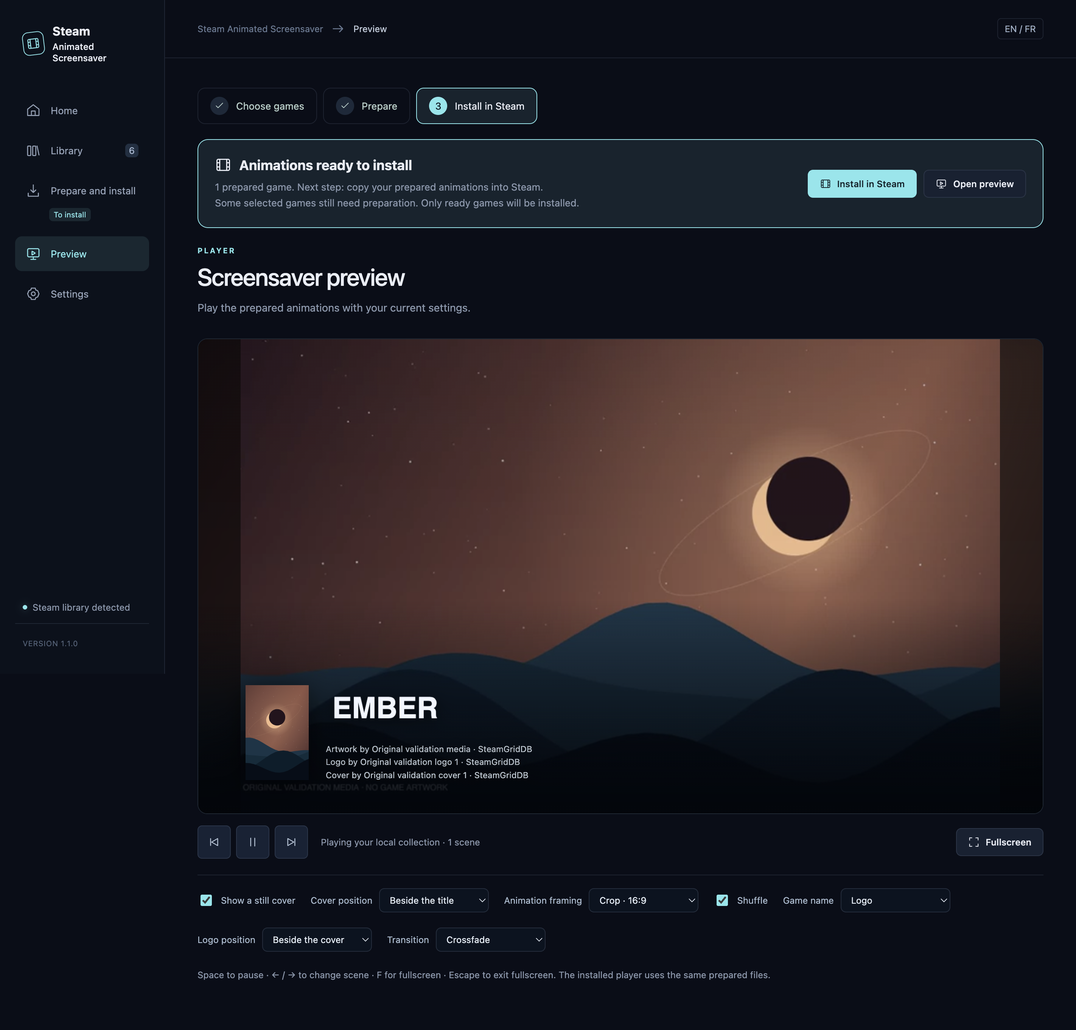
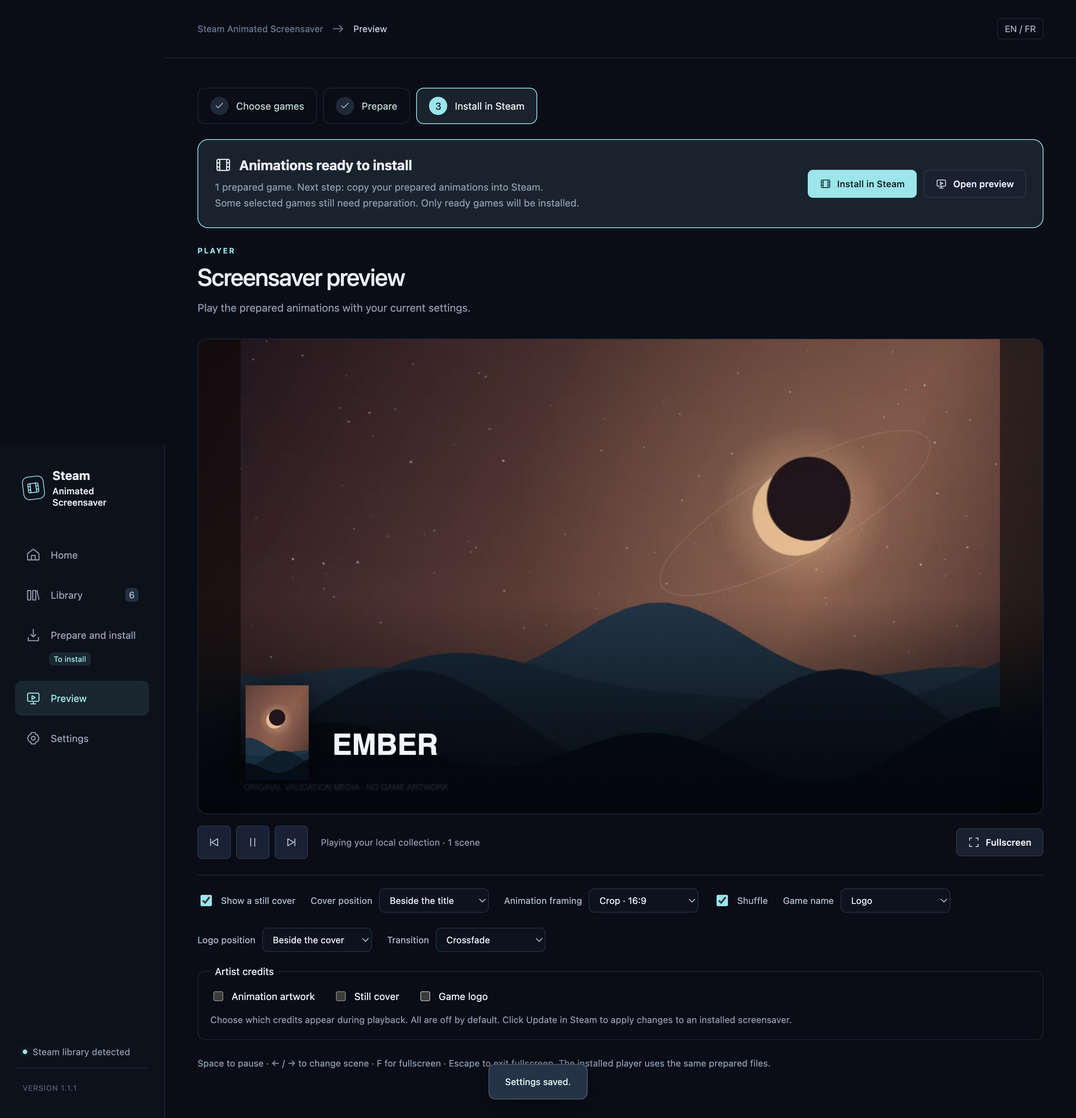
Add optional playback credits and release 1.1.1

diff --git a/manager/app.js b/manager/app.js
@@ -1006,6 +1006,22 @@ Object.assign(translations.fr, {
   phaseLogoCheck: 'Vérification du logo du jeu',
   phaseLogoPrepare: 'Téléchargement et validation du logo'
 });
+Object.assign(translations.en, {
+  creditsTitle: 'Artist credits',
+  creditsHint:
+    'Choose which credits appear during playback. All are off by default. Click Update in Steam to apply changes to an installed screensaver.',
+  showArtworkCredit: 'Animation artwork',
+  showCoverCredit: 'Still cover',
+  showLogoCredit: 'Game logo'
+});
+Object.assign(translations.fr, {
+  creditsTitle: 'Crédits des artistes',
+  creditsHint:
+    'Choisissez les crédits affichés pendant la lecture. Ils sont tous désactivés par défaut. Cliquez sur Mettre à jour dans Steam pour appliquer les changements à l’écran de veille installé.',
+  showArtworkCredit: 'Illustration animée',
+  showCoverCredit: 'Jaquette fixe',
+  showLogoCredit: 'Logo du jeu'
+});
 const app = document.querySelector('#app'),
   addDialog = document.querySelector('#add-dialog'),
   detailDialog = document.querySelector('#detail-dialog');
@@ -1018,6 +1034,9 @@ const defaultState = {
     transition: 'crossfade',
     showLogos: true,
     nameDisplay: 'logo',
+    showArtworkCredit: false,
+    showCoverCredit: false,
+    showLogoCredit: false,
     logoPosition: 'beside-title',
     showCover: true,
     coverPosition: 'beside-title',
@@ -1427,11 +1446,14 @@ function brandingOptions(value, position = false, inherit = false) {
     )
     .join('');
 }
+function creditsControls() {
+  return `<fieldset class="credits-options"><legend>${esc(t('creditsTitle'))}</legend><div class="credits-choices">${['showArtworkCredit', 'showCoverCredit', 'showLogoCredit'].map((key) => `<label><input type="checkbox" data-setting="${key}" ${state.settings[key] ? 'checked' : ''}>${esc(t(key))}</label>`).join('')}</div><p>${esc(t('creditsHint'))}</p></fieldset>`;
+}
 function brandingControls() {
   return `<label class="preview-option"><span>${esc(t('gameName'))}</span><select class="field" data-setting="nameDisplay" aria-label="${esc(t('gameName'))}">${brandingOptions(state.settings.nameDisplay)}</select></label><label class="preview-option"><span>${esc(t('logoPosition'))}</span><select class="field" data-setting="logoPosition" aria-label="${esc(t('logoPosition'))}">${brandingOptions(state.settings.logoPosition, true)}</select></label>`;
 }
 function shell() {
-  return `<div class="app-shell"><aside class="sidebar"><div class="brand"><span class="brand-mark">${icon('film')}</span><div><div class="brand-name">Steam <span>Animated Screensaver</span></div></div></div><nav class="nav" aria-label="${esc(t('tagline'))}">${['home', 'library', 'preparation', 'preview', 'settings'].map((r) => `<button data-route="${r}" class="${route === r ? 'active' : ''}" ${route === r ? 'aria-current="page"' : ''}>${icon(r === 'preparation' ? 'prepare' : r)}<span>${esc(t(r))}</span>${r === 'preparation' ? `<small data-workflow-badge class="workflow-badge" ${!workflowBadge() ? 'hidden' : ''}>${esc(workflowBadge())}</small>` : ''}${r === 'library' && state.games.length ? `<span class="nav-count">${state.games.length}</span>` : ''}</button>`).join('')}</nav><div class="sidebar-bottom"><div class="steam-status"><span class="status-dot ${state.steam.detected ? 'on' : ''}"></span>${esc(t(state.steam.detected ? 'connected' : 'notDetected'))}</div><div class="sidebar-foot">VERSION 1.1.0</div></div></aside><main class="main"><header class="topbar"><div class="breadcrumbs">Steam Animated Screensaver ${icon('arrow')}<span>${esc(t(route))}</span></div><div class="mobile-brand">${icon('film')} Steam Animated Screensaver</div><div class="top-actions"><button class="top-lang" data-action="language" aria-label="${lang() === 'en' ? 'Passer en français' : 'Switch to English'}">${lang() === 'en' ? 'EN / FR' : 'FR / EN'}</button></div></header><div class="content">${workflow()}${steamNextStep()}${[...(state.warnings || []), ...(state.steam.warnings || [])].length ? `<div class="banner" role="status">${icon('info')}<span>${[...(state.warnings || []), ...(state.steam.warnings || [])].map(esc).join('<br>')}</span></div>` : ''}${connectionError ? `<div class="connection-error" role="alert">${esc(t('connectionError'))} ${button(t('retryConnection'), 'reconnect', 'refresh')}</div>` : ''}${{ home: homeView, library: libraryView, preparation: preparationView, preview: previewView, settings: settingsView }[route]()}</div></main></div>`;
+  return `<div class="app-shell"><aside class="sidebar"><div class="brand"><span class="brand-mark">${icon('film')}</span><div><div class="brand-name">Steam <span>Animated Screensaver</span></div></div></div><nav class="nav" aria-label="${esc(t('tagline'))}">${['home', 'library', 'preparation', 'preview', 'settings'].map((r) => `<button data-route="${r}" class="${route === r ? 'active' : ''}" ${route === r ? 'aria-current="page"' : ''}>${icon(r === 'preparation' ? 'prepare' : r)}<span>${esc(t(r))}</span>${r === 'preparation' ? `<small data-workflow-badge class="workflow-badge" ${!workflowBadge() ? 'hidden' : ''}>${esc(workflowBadge())}</small>` : ''}${r === 'library' && state.games.length ? `<span class="nav-count">${state.games.length}</span>` : ''}</button>`).join('')}</nav><div class="sidebar-bottom"><div class="steam-status"><span class="status-dot ${state.steam.detected ? 'on' : ''}"></span>${esc(t(state.steam.detected ? 'connected' : 'notDetected'))}</div><div class="sidebar-foot">VERSION 1.1.1</div></div></aside><main class="main"><header class="topbar"><div class="breadcrumbs">Steam Animated Screensaver ${icon('arrow')}<span>${esc(t(route))}</span></div><div class="mobile-brand">${icon('film')} Steam Animated Screensaver</div><div class="top-actions"><button class="top-lang" data-action="language" aria-label="${lang() === 'en' ? 'Passer en français' : 'Switch to English'}">${lang() === 'en' ? 'EN / FR' : 'FR / EN'}</button></div></header><div class="content">${workflow()}${steamNextStep()}${[...(state.warnings || []), ...(state.steam.warnings || [])].length ? `<div class="banner" role="status">${icon('info')}<span>${[...(state.warnings || []), ...(state.steam.warnings || [])].map(esc).join('<br>')}</span></div>` : ''}${connectionError ? `<div class="connection-error" role="alert">${esc(t('connectionError'))} ${button(t('retryConnection'), 'reconnect', 'refresh')}</div>` : ''}${{ home: homeView, library: libraryView, preparation: preparationView, preview: previewView, settings: settingsView }[route]()}</div></main></div>`;
 }
 function heading(eyebrow, title, sub, actions = '') {
   return `<div class="page-heading"><div><div class="eyebrow">${esc(t(eyebrow))}</div><h1>${esc(t(title))}</h1><p>${esc(t(sub))}</p></div>${actions ? `<div class="button-row">${actions}</div>` : ''}</div>`;
@@ -1593,7 +1615,7 @@ function coverPositionOptions() {
 }
 function previewView() {
   const games = readyGames();
-  return `${heading('previewEyebrow', 'previewTitle', 'previewSub')}${games.length ? `<div id="preview-shell" class="preview-shell"><iframe id="player-frame" src="../player/index.html" title="Steam Animated Screensaver ${esc(t('preview'))}" allow="autoplay; fullscreen" tabindex="-1"></iframe><button class="button ghost fullscreen-exit" data-action="exit-fullscreen">${icon('close')}${esc(t('exitFullscreen'))}</button></div><div class="preview-controls"><div class="playback-buttons"><button class="icon-button" data-action="previous" aria-label="${esc(t('previous') || 'Previous')}">${icon('previous')}</button><button class="icon-button" data-action="toggle-play" aria-label="${esc(t(previewPlaying ? 'pause' : 'resume'))}">${icon(previewPlaying ? 'pause' : 'play')}</button><button class="icon-button" data-action="next" aria-label="${esc(t('next') || 'Next')}">${icon('next')}</button><span class="playback-note">${esc(t(previewPlaying ? 'playing' : 'paused'))} · ${games.length} ${esc(t(games.length === 1 ? 'scene' : 'scenes'))}</span></div>${button(t('fullscreen'), 'fullscreen', 'fullscreen')}</div><div class="preview-options"><label class="preview-option"><input type="checkbox" data-setting="showCover" ${state.settings.showCover ? 'checked' : ''}>${esc(t('showCover'))}</label><label class="preview-option"><span>${esc(t('coverPosition'))}</span><select class="field" data-setting="coverPosition">${coverPositionOptions()}</select></label><label class="preview-option"><span>${esc(t('framing'))}</span><select class="field" data-setting="framing">${framingOptions(state.settings.framing)}</select></label><label class="preview-option"><input type="checkbox" data-setting="shuffle" ${state.settings.shuffle ? 'checked' : ''}>${esc(t('shuffleShort'))}</label>${brandingControls()}<label class="preview-option"><span>${esc(t('transitionShort'))}</span><select class="field" data-setting="transition"><option value="crossfade" ${state.settings.transition !== 'fade-black' ? 'selected' : ''}>${esc(t('crossfade'))}</option><option value="fade-black" ${state.settings.transition === 'fade-black' ? 'selected' : ''}>${esc(t('fadeBlack'))}</option></select></label></div><p class="preview-caption">${esc(t('previewNote'))}</p>` : empty(t('previewEmpty'), t('previewEmptyBody'), button(t('prepareScenes'), 'open-preparation', 'prepare', true), 'preview')}`;
+  return `${heading('previewEyebrow', 'previewTitle', 'previewSub')}${games.length ? `<div id="preview-shell" class="preview-shell"><iframe id="player-frame" src="../player/index.html" title="Steam Animated Screensaver ${esc(t('preview'))}" allow="autoplay; fullscreen" tabindex="-1"></iframe><button class="button ghost fullscreen-exit" data-action="exit-fullscreen">${icon('close')}${esc(t('exitFullscreen'))}</button></div><div class="preview-controls"><div class="playback-buttons"><button class="icon-button" data-action="previous" aria-label="${esc(t('previous') || 'Previous')}">${icon('previous')}</button><button class="icon-button" data-action="toggle-play" aria-label="${esc(t(previewPlaying ? 'pause' : 'resume'))}">${icon(previewPlaying ? 'pause' : 'play')}</button><button class="icon-button" data-action="next" aria-label="${esc(t('next') || 'Next')}">${icon('next')}</button><span class="playback-note">${esc(t(previewPlaying ? 'playing' : 'paused'))} · ${games.length} ${esc(t(games.length === 1 ? 'scene' : 'scenes'))}</span></div>${button(t('fullscreen'), 'fullscreen', 'fullscreen')}</div><div class="preview-options"><label class="preview-option"><input type="checkbox" data-setting="showCover" ${state.settings.showCover ? 'checked' : ''}>${esc(t('showCover'))}</label><label class="preview-option"><span>${esc(t('coverPosition'))}</span><select class="field" data-setting="coverPosition">${coverPositionOptions()}</select></label><label class="preview-option"><span>${esc(t('framing'))}</span><select class="field" data-setting="framing">${framingOptions(state.settings.framing)}</select></label><label class="preview-option"><input type="checkbox" data-setting="shuffle" ${state.settings.shuffle ? 'checked' : ''}>${esc(t('shuffleShort'))}</label>${brandingControls()}<label class="preview-option"><span>${esc(t('transitionShort'))}</span><select class="field" data-setting="transition"><option value="crossfade" ${state.settings.transition !== 'fade-black' ? 'selected' : ''}>${esc(t('crossfade'))}</option><option value="fade-black" ${state.settings.transition === 'fade-black' ? 'selected' : ''}>${esc(t('fadeBlack'))}</option></select></label></div>${creditsControls()}<p class="preview-caption">${esc(t('previewNote'))}</p>` : empty(t('previewEmpty'), t('previewEmptyBody'), button(t('prepareScenes'), 'open-preparation', 'prepare', true), 'preview')}`;
 }
 const toggle = (key, label, hint) =>
   `<label class="setting-row"><span><span class="setting-row-label">${esc(t(label))}</span>${hint ? `<small>${esc(t(hint))}</small>` : ''}</span><span class="switch"><input type="checkbox" data-setting="${key}" ${state.settings[key] ? 'checked' : ''}><span></span></span></label>`;
@@ -1692,7 +1714,7 @@ function settingsView() {
       .join(
         ''
       )}</select></label><label class="setting-row"><span class="setting-row-label">${esc(t('smoothingFps'))}</span><select class="field" data-setting="smoothingFps">${[24, 30].map((n) => `<option value="${n}" ${state.settings.smoothingFps === n ? 'selected' : ''}>${n} ${lang() === 'fr' ? 'i/s' : 'fps'}</option>`).join('')}</select></label><label class="setting-row"><span><span class="setting-row-label">${esc(t('maxSmoothingMB'))}</span><small>${esc(t('smoothingSizeHint'))}</small></span><input class="field" data-setting="maxSmoothingMB" type="number" min="0" max="1000000" step="1" value="${Number(state.settings.maxSmoothingMB) || 0}" aria-label="${esc(t('maxSmoothingMB'))}"></label>${toggle('staticFallback', 'staticFallback', 'staticHint')}${toggle('reducedMotion', 'reducedMotion', 'motionHint')}${toggle('pauseOnGame', 'pauseOnGame', 'pauseHint')}`
-  )}${panel('storage', 'drive', `<div class="storage-label"><span>${esc(bytes(used))}</span><span>${max} GB</span></div><div class="storage-meter"><span style="width:${Math.min(100, (used / (max * 1073741824)) * 100)}%"></span></div><label class="setting-row"><span><span class="setting-row-label">${esc(t('storageLimit'))}</span><small>${esc(t('storageHint'))}</small></span><input class="field" data-setting="maxStorageGB" type="number" min="0.1" max="1000" step="0.1" value="${max}" aria-label="${esc(t('storageLimit'))}"></label><div style="margin-top:20px">${button(t('clearUnused'), 'clearUnused', 'trash') + button(t('repairLibrary'), 'repair', 'refresh')}</div><div class="purge-section"><p>${esc(t('purgeMediaHint'))}</p>${button(t(purgingMedia ? 'purgingMedia' : 'purgeMedia'), 'purge-media', 'trash', false, purgingMedia ? 'disabled' : '')}${state.lastMediaPurge ? `<p class="purge-result">${esc(t('lastMediaPurge'))} : ${esc(new Date(state.lastMediaPurge.at).toLocaleString(lang()))} · ${esc(bytes(state.lastMediaPurge.bytes))}</p>` : ''}</div>`)}${panel('steamIntegration', 'film', `<p>${esc(t('steamInstallBody'))}</p><div class="steam-status" style="margin:0 0 17px"><span class="status-dot ${state.steam.installed ? 'on' : ''}"></span>${esc(t(state.steam.installed ? 'integrationInstalled' : 'integrationNotInstalled'))}</div>${!state.steam.detected ? `<p>${esc(t('integrationNoSteam'))}</p>` : ''}<div class="button-row">${state.steam.installed ? button(t('repair'), 'update-install', 'refresh', true) + button(t('repairInstall'), 'repair-install', 'refresh') + button(t('uninstall'), 'uninstall', 'trash', false) : button(t('install'), 'install', 'prepare', true, !state.steam.detected || !readyGames().length ? 'disabled' : '')}${button(t('scanAgain'), 'scan', 'scan')}</div><p style="margin:16px 0 0;font-size:9px">${esc(t('runtimeNote'))}</p>`)}${steamIdlePanel()}${panel('diagnosticsTitle', 'info', `<p>${esc(t('logsHint'))}</p>${state.diagnostics?.available ? `<p class="log-path">${esc(state.diagnostics.file)}</p>${button(t('openLogs'), 'open-logs', 'drive')}${state.diagnostics.error ? `<p role="alert">${esc(state.diagnostics.error)}</p>` : ''}` : `<p>${esc(t('logsUnavailable'))}</p>`}`)}</div><aside class="settings-note">${icon('shield')}<strong>${esc(t('privacyTitle'))}</strong>${esc(t('privacyBody'))}</aside></div><p class="footnote">${esc(t('credit'))}</p>`;
+  )}${panel('creditsTitle', 'image', creditsControls())}${panel('storage', 'drive', `<div class="storage-label"><span>${esc(bytes(used))}</span><span>${max} GB</span></div><div class="storage-meter"><span style="width:${Math.min(100, (used / (max * 1073741824)) * 100)}%"></span></div><label class="setting-row"><span><span class="setting-row-label">${esc(t('storageLimit'))}</span><small>${esc(t('storageHint'))}</small></span><input class="field" data-setting="maxStorageGB" type="number" min="0.1" max="1000" step="0.1" value="${max}" aria-label="${esc(t('storageLimit'))}"></label><div style="margin-top:20px">${button(t('clearUnused'), 'clearUnused', 'trash') + button(t('repairLibrary'), 'repair', 'refresh')}</div><div class="purge-section"><p>${esc(t('purgeMediaHint'))}</p>${button(t(purgingMedia ? 'purgingMedia' : 'purgeMedia'), 'purge-media', 'trash', false, purgingMedia ? 'disabled' : '')}${state.lastMediaPurge ? `<p class="purge-result">${esc(t('lastMediaPurge'))} : ${esc(new Date(state.lastMediaPurge.at).toLocaleString(lang()))} · ${esc(bytes(state.lastMediaPurge.bytes))}</p>` : ''}</div>`)}${panel('steamIntegration', 'film', `<p>${esc(t('steamInstallBody'))}</p><div class="steam-status" style="margin:0 0 17px"><span class="status-dot ${state.steam.installed ? 'on' : ''}"></span>${esc(t(state.steam.installed ? 'integrationInstalled' : 'integrationNotInstalled'))}</div>${!state.steam.detected ? `<p>${esc(t('integrationNoSteam'))}</p>` : ''}<div class="button-row">${state.steam.installed ? button(t('repair'), 'update-install', 'refresh', true) + button(t('repairInstall'), 'repair-install', 'refresh') + button(t('uninstall'), 'uninstall', 'trash', false) : button(t('install'), 'install', 'prepare', true, !state.steam.detected || !readyGames().length ? 'disabled' : '')}${button(t('scanAgain'), 'scan', 'scan')}</div><p style="margin:16px 0 0;font-size:9px">${esc(t('runtimeNote'))}</p>`)}${steamIdlePanel()}${panel('diagnosticsTitle', 'info', `<p>${esc(t('logsHint'))}</p>${state.diagnostics?.available ? `<p class="log-path">${esc(state.diagnostics.file)}</p>${button(t('openLogs'), 'open-logs', 'drive')}${state.diagnostics.error ? `<p role="alert">${esc(state.diagnostics.error)}</p>` : ''}` : `<p>${esc(t('logsUnavailable'))}</p>`}`)}</div><aside class="settings-note">${icon('shield')}<strong>${esc(t('privacyTitle'))}</strong>${esc(t('privacyBody'))}</aside></div><p class="footnote">${esc(t('credit'))}</p>`;
 }
 function render() {
   // Steam idle status can finish loading while another settings form is being edited.

diff --git a/player/player.js b/player/player.js
@@ -44,6 +44,9 @@
       ].includes(input.logoPosition)
         ? input.logoPosition
         : 'beside-title',
+      showArtworkCredit: input.showArtworkCredit === true,
+      showCoverCredit: input.showCoverCredit === true,
+      showLogoCredit: input.showLogoCredit === true,
       showCover: input.showCover !== false,
       coverPosition: ['beside-title', 'bottom-right', 'top-right', 'top-left'].includes(
         input.coverPosition
@@ -274,9 +277,16 @@
       else scene.append(logo);
     }
     const logoCredit = scene.querySelector('.logo-credit');
-    if (logoCredit) logoCredit.hidden = !logo || logo.hidden;
+    if (logoCredit) logoCredit.hidden = !options.showLogoCredit || !logo || logo.hidden;
+    const artworkCredit = scene.querySelector('.artwork-credit');
+    if (artworkCredit) artworkCredit.hidden = !options.showArtworkCredit;
     scene.classList.toggle('has-logo', !!logo && !logo.hidden);
-    scene.style.setProperty('--caption-height', `${caption.getBoundingClientRect().height}px`);
+    const captionHeight = caption.getBoundingClientRect().height;
+    scene.style.setProperty('--caption-height', `${captionHeight}px`);
+    scene.style.setProperty(
+      '--caption-clearance',
+      captionHeight > 0 ? `calc(${captionHeight}px + var(--cover-gap))` : '0px'
+    );
   }
   function placeCover(scene) {
     const cover = scene.querySelector('.caption-cover');
@@ -288,7 +298,8 @@
     else scene.append(cover);
     scene.classList.toggle('has-cover', !cover.hidden);
     const credit = scene.querySelector('.cover-credit');
-    if (credit) credit.hidden = cover.hidden || cover.dataset.fallback === 'true';
+    if (credit)
+      credit.hidden = !options.showCoverCredit || cover.hidden || cover.dataset.fallback === 'true';
     placeBranding(scene);
   }
   function placeFrame(scene) {
@@ -345,7 +356,8 @@
     title.textContent = String(game.name || '');
     title.hidden = !options.showLogos;
     const credit = doc.createElement('p');
-    credit.className = 'credit';
+    credit.className = 'credit artwork-credit';
+    credit.hidden = !options.showArtworkCredit;
     credit.textContent = `${french() ? 'Artwork de' : 'Artwork by'} ${String(game.media.author?.name || 'Unknown')} · SteamGridDB`;
     const copy = doc.createElement('div');
     copy.className = 'caption-copy';

diff --git a/manager/styles.css b/manager/styles.css
@@ -2732,3 +2732,33 @@ body.reduced-motion *:after {
     flex-wrap: wrap;
   }
 }
+
+.credits-options {
+  min-width: 0;
+  border: 1px solid var(--line);
+  border-radius: 10px;
+  padding: 16px;
+  margin: 18px 0;
+}
+.credits-options legend {
+  color: var(--text);
+  font-size: 13px;
+  padding: 0 6px;
+}
+.credits-choices {
+  display: flex;
+  gap: 16px 24px;
+  flex-wrap: wrap;
+}
+.credits-choices label {
+  display: flex;
+  align-items: center;
+  gap: 8px;
+  font-size: 13px;
+}
+.credits-options p {
+  color: var(--muted);
+  font-size: 12px;
+  line-height: 1.6;
+  margin: 12px 0 0;
+}

diff --git a/player/player.css b/player/player.css
@@ -242,7 +242,7 @@ body {
 }
 .scene[data-logo-position='bottom-left'] > .game-logo {
   left: var(--caption-x);
-  bottom: calc(var(--caption-y) + var(--caption-height, 0px) + var(--cover-gap));
+  bottom: calc(var(--caption-y) + var(--caption-clearance, 0px));
 }
 .scene[data-logo-position='bottom-right'] > .game-logo {
   right: var(--caption-x);
@@ -269,4 +269,8 @@ body {
 }
 .caption .logo-credit {
   margin-top: 0.35em;
+}
+
+.caption .credit[hidden] {
+  display: none;
 }

diff --git a/README.md b/README.md
@@ -6,7 +6,7 @@ Choose games, prepare their animations and install the screensaver in Steam. Pre
 
 [![Animated preview: Elden Ring in original and 16:9 framing, followed by Cyberpunk 2077](screenshots/public/screensaver-demo.gif)](docs/DEMO.md)
 
-[Demo video and credits](docs/DEMO.md) · [Download version 1.1.0](https://github.com/Alyenax/Steam-Animated-Screensaver/releases/tag/v1.1.0)
+[Demo video and credits](docs/DEMO.md) · [Download version 1.1.1](https://github.com/Alyenax/Steam-Animated-Screensaver/releases/tag/v1.1.1)
 
 Maintained by [Alyenax](https://github.com/Alyenax).
 
@@ -20,6 +20,7 @@ Maintained by [Alyenax](https://github.com/Alyenax).
 - Scan installed games, import owned games that are not installed, or search by title / Steam AppID. Proton and other Steam components are filtered out.
 - Select all filtered games, your top 100 by playtime or current player count, or discover Steam's current top 100.
 - Choose an animation, still cover and game logo. The default is the logo beside the cover, with the title as fallback if no logo is available. Show title, logo, both or neither, and place the logo in any corner. Override branding for individual games.
+- Choose which artist credits appear: animation, cover and logo. All are hidden by default. Changes apply through **Update in Steam**, with no new preparation.
 - Keep the full image or crop it to 16:9 / 16:10, with an adjustable focal point.
 - Set scene duration, shuffle and transitions. Optional 24/30 fps processing can help with some sources; it can be slow and does not fix every animation.
 - Set Steam's inactivity delays. A first configuration proposes **5 minutes** on AC and battery; saved choices are preserved.
@@ -41,10 +42,10 @@ Maintained by [Alyenax](https://github.com/Alyenax).
 
 | Platform                             | Package                                                                                                                                                             | Launch                                                            |
 | ------------------------------------ | ------------------------------------------------------------------------------------------------------------------------------------------------------------------- | ----------------------------------------------------------------- |
-| SteamOS / Steam Deck / Steam Machine | [Download for SteamOS](https://github.com/Alyenax/Steam-Animated-Screensaver/releases/download/v1.1.0/Steam-Animated-Screensaver-1.1.0-steamos-x64.tar.gz)          | In Desktop Mode, extract and run `./install.sh`                   |
-| Linux desktop                        | [Download for Linux](https://github.com/Alyenax/Steam-Animated-Screensaver/releases/download/v1.1.0/Steam-Animated-Screensaver-1.1.0-linux-x64.tar.gz)              | Extract and run `./install.sh`                                    |
-| Windows                              | [Download for Windows](https://github.com/Alyenax/Steam-Animated-Screensaver/releases/download/v1.1.0/Steam-Animated-Screensaver-1.1.0-windows-x64.zip)             | Extract the whole folder and run `Steam Animated Screensaver.exe` |
-| macOS 13+                            | [Download for Mac (Apple Silicon)](https://github.com/Alyenax/Steam-Animated-Screensaver/releases/download/v1.1.0/Steam-Animated-Screensaver-1.1.0-macos-arm64.dmg) | Open the DMG and drag the app to Applications                     |
+| SteamOS / Steam Deck / Steam Machine | [Download for SteamOS](https://github.com/Alyenax/Steam-Animated-Screensaver/releases/download/v1.1.1/Steam-Animated-Screensaver-1.1.1-steamos-x64.tar.gz)          | In Desktop Mode, extract and run `./install.sh`                   |
+| Linux desktop                        | [Download for Linux](https://github.com/Alyenax/Steam-Animated-Screensaver/releases/download/v1.1.1/Steam-Animated-Screensaver-1.1.1-linux-x64.tar.gz)              | Extract and run `./install.sh`                                    |
+| Windows                              | [Download for Windows](https://github.com/Alyenax/Steam-Animated-Screensaver/releases/download/v1.1.1/Steam-Animated-Screensaver-1.1.1-windows-x64.zip)             | Extract the whole folder and run `Steam Animated Screensaver.exe` |
+| macOS 13+                            | [Download for Mac (Apple Silicon)](https://github.com/Alyenax/Steam-Animated-Screensaver/releases/download/v1.1.1/Steam-Animated-Screensaver-1.1.1-macos-arm64.dmg) | Open the DMG and drag the app to Applications                     |
 
 The app starts in English; French can be selected in Settings. Saved language choices are retained.
 

diff --git a/CHANGELOG.md b/CHANGELOG.md
@@ -1,5 +1,35 @@
 # Changelog
 
+## 1.1.1 - October 17, 2026
+
+### Optional playback credits
+
+- Hide artist credits by default, including when upgrading an existing library.
+- Choose animation artwork, still cover and game logo credits independently in Preview or Settings. Saved choices are retained after restarting the app.
+- Apply the same credit choices to offline Steam playback. Credits for a hidden or missing cover or logo stay hidden.
+- Apply credit changes with **Update in Steam**. Preparing or downloading media again is not required. Artist information remains stored with the media.
+
+### Downloads and installation
+
+Download only the package for your platform. Other release files are optional developer sources, grouped validation reports, the original demo and checksums.
+
+| Platform            | Download                                                                                                                                                    | Installation                                                       |
+| ------------------- | ----------------------------------------------------------------------------------------------------------------------------------------------------------- | ------------------------------------------------------------------ |
+| SteamOS Gaming Mode | [SteamOS x64](https://github.com/Alyenax/Steam-Animated-Screensaver/releases/download/v1.1.1/Steam-Animated-Screensaver-1.1.1-steamos-x64.tar.gz)           | In Desktop Mode, extract the archive and run `./install.sh`.       |
+| Linux desktop       | [Linux x64](https://github.com/Alyenax/Steam-Animated-Screensaver/releases/download/v1.1.1/Steam-Animated-Screensaver-1.1.1-linux-x64.tar.gz)               | Extract the archive and run `./install.sh`.                        |
+| Windows 10 or 11    | [Windows x64 portable ZIP](https://github.com/Alyenax/Steam-Animated-Screensaver/releases/download/v1.1.1/Steam-Animated-Screensaver-1.1.1-windows-x64.zip) | Extract the whole folder and run `Steam Animated Screensaver.exe`. |
+| macOS 13 or later   | [Mac Apple Silicon DMG](https://github.com/Alyenax/Steam-Animated-Screensaver/releases/download/v1.1.1/Steam-Animated-Screensaver-1.1.1-macos-arm64.dmg)    | Open the DMG and drag the app to Applications.                     |
+
+### Apply it in Steam
+
+1. For a first installation, choose games, click **Prepare scenes**, check **Preview**, then **Install in Steam**.
+2. In **Preview** or **Settings → Artist credits**, enable only the credits you want. All three choices are off by default.
+3. For an existing Steam installation, click **Update in Steam** to apply the credit settings. No new preparation is needed for this change.
+4. In Steam Big Picture or SteamOS Gaming Mode, open **Settings → Customization → Screensavers**, select **steam-animated-screensaver** and try **Preview**. Restart Steam if it is missing.
+5. Set the inactivity delay in Steam. If the controls are missing, fully quit Steam and use **Settings → Automatic start in Steam** in the app, then reopen Steam. The app can be closed during Steam playback.
+
+Windows and Linux still need more hands-on testing on their target systems. Package checks and macOS execution do not establish native behavior on those platforms.
+
 ## 1.1.0 - October 17, 2026
 
 ### Game logos

diff --git a/docs/INSTALLATION.md b/docs/INSTALLATION.md
@@ -44,6 +44,10 @@ The script refuses linked or unowned destinations. It does not use `sudo`, chang
 
 By default, the game logo appears beside the still cover. A missing or unreadable logo falls back to the game title. In Preview or Settings, choose title, logo, both or hidden, and choose the logo position. The game sheet has alternative logos and individual display overrides. Prepare once after upgrading to download missing logos; valid animations are reused. Click **Update in Steam** to apply changes to an existing installation. The player uses only copied local files during playback.
 
+## Playback credits
+
+Artist credits are hidden by default, including when opening a library created with an earlier version. In **Preview** or **Settings → Artist credits**, choose animation artwork, still cover and game logo credits independently. Choices are saved. Credits for a hidden or unavailable cover or logo are not displayed. Click **Update in Steam** to apply changes to the installed player; there is no need to prepare or download media again. Artist information is retained with the media.
+
 ## Steam paths
 
 The export path is always **`<Steam client root>/config/uioverrides/screensavers/steam-animated-screensaver/`**. A secondary game library contributes games but is not a screensaver installation target.

diff --git a/docs/VALIDATION.md b/docs/VALIDATION.md
@@ -1,5 +1,9 @@
 # Validation - Steam Animated Screensaver
 
+## 1.1.1 validation
+
+The full unit and integration suite passes 134 tests. Dedicated tests cover hidden defaults for new and existing libraries, independent boolean settings, persistence, exported metadata and installation change detection. Browser checks exercise all eight credit combinations, conditional cover and logo attribution, English/French controls, reload persistence and actual offline Steam export. The original 1.1.0 logo and installation regression remains covered.
+
 ## 1.1.0 validation
 
 The full unit and integration suite passes 131 tests, including four dedicated branding and installation-state cases. The 1.1.0 release adds logo provider, catalog persistence, offline export, missing-logo fallback and installation-change detection checks. Browser tests exercise the logo picker, per-game overrides, all four corners with cover collisions at desktop, handheld and mobile widths, the preparation-to-installation path and English/French labels. Machine-readable results accompany the 1.1.0 release in its grouped validation ZIP. Existing 1.0.0 results below remain historical evidence.
